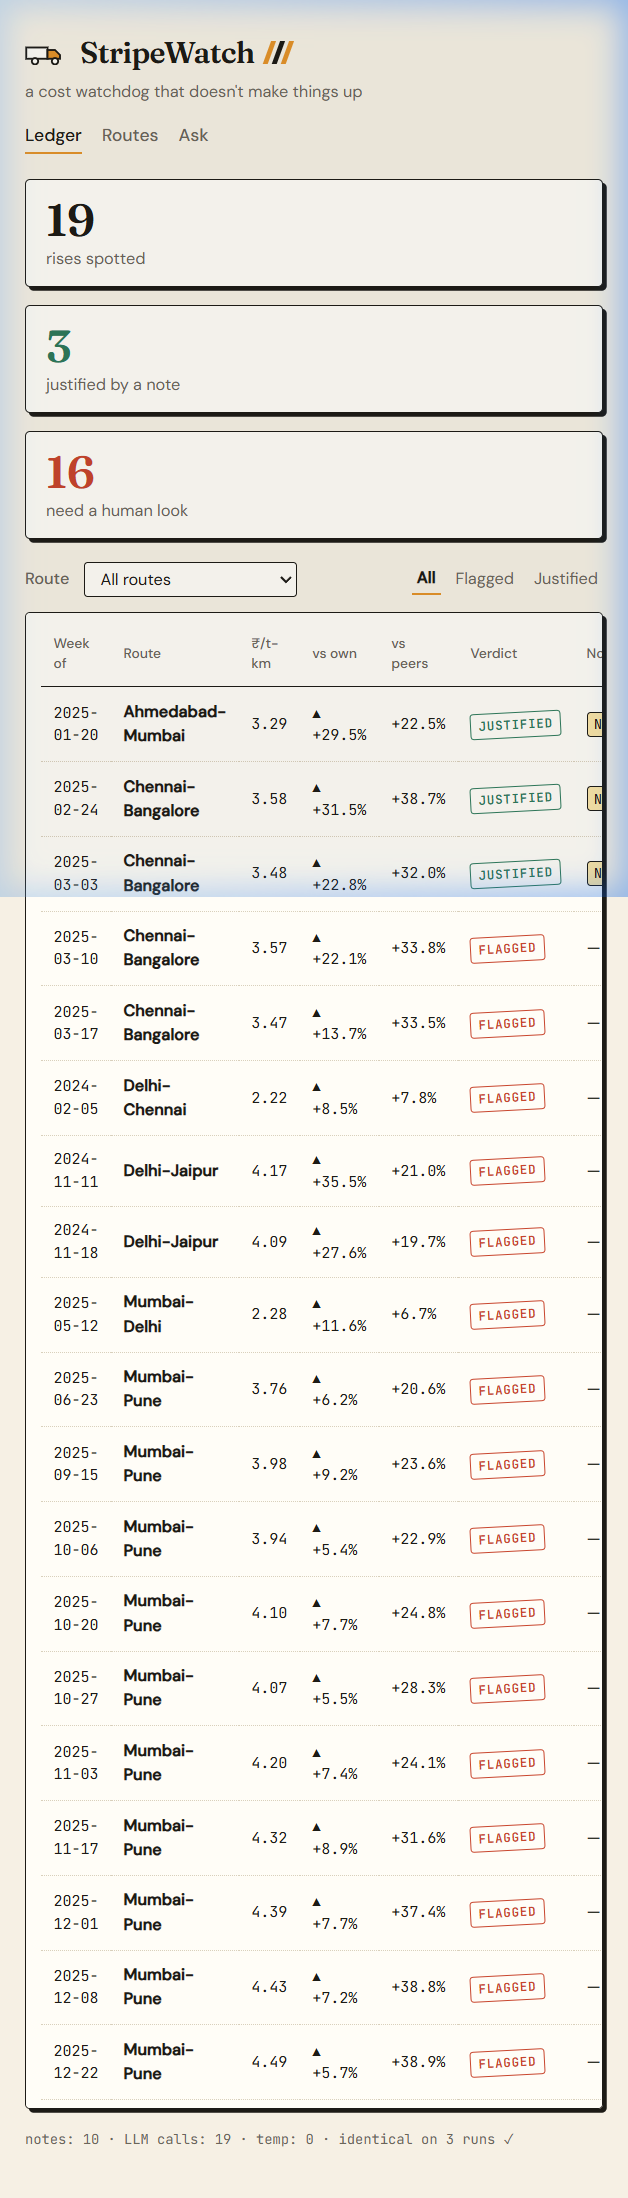
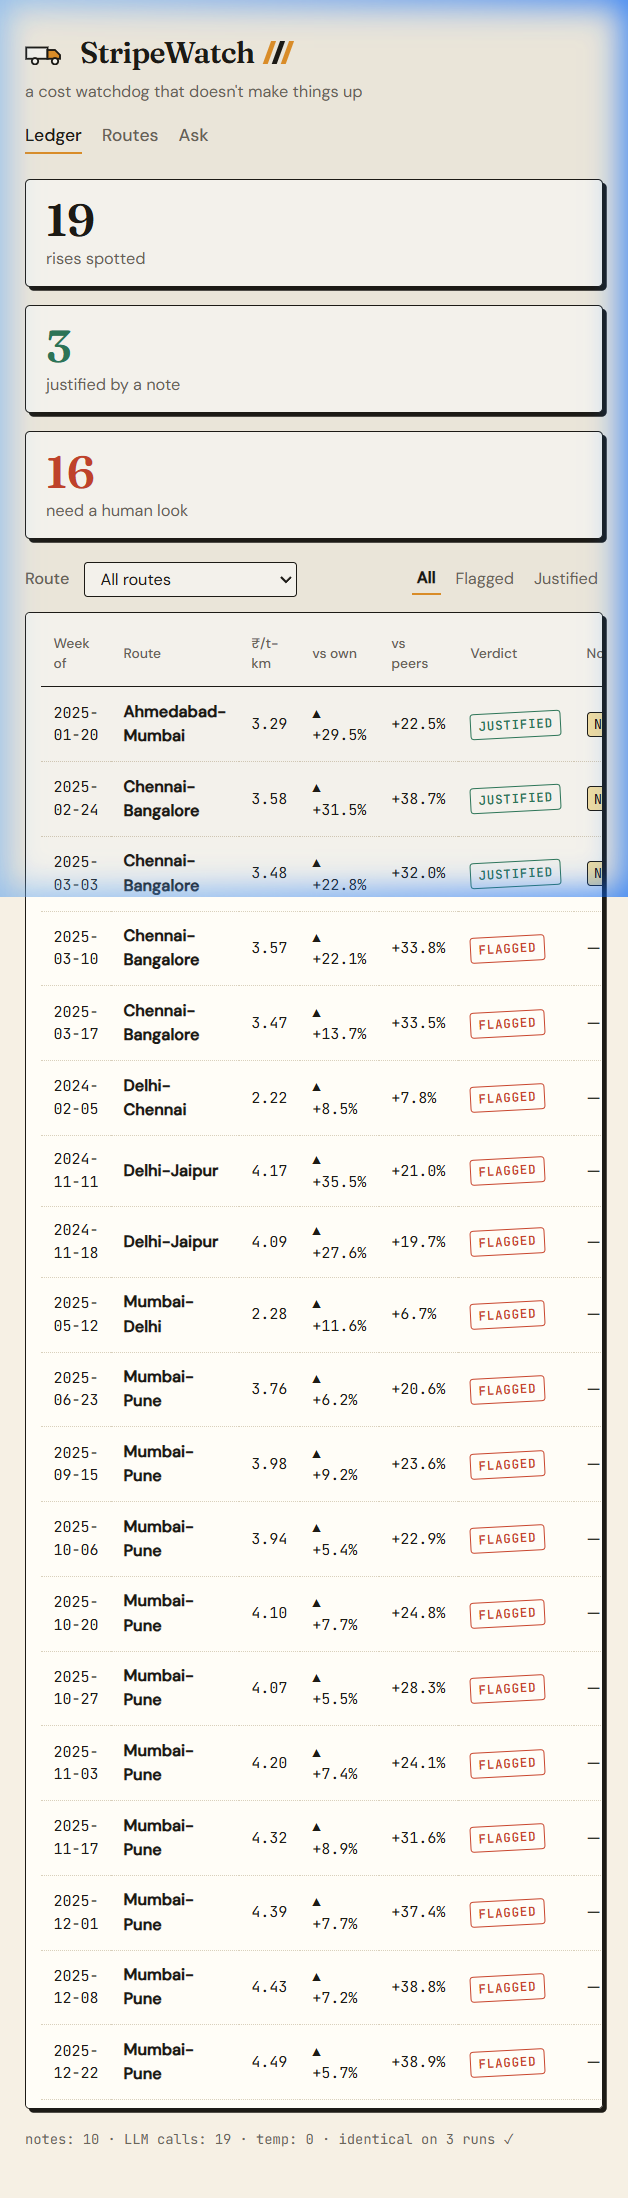
style: fine-tune mobile responsiveness, touch targets, and viewport padding

Changed region(s): [[0.1815, 0.0, 1.0, 0.4331], [0.0, 0.0, 0.0303, 0.4331]]

diff --git a/web/app.css b/web/app.css
@@ -305,6 +305,66 @@ html, body {
   * { animation: none !important; }
 }
 @media (max-width: 560px) {
-  .summary { grid-template-columns: 1fr; }
-  .ledger { overflow-x: auto; }
+  .sw { padding: 16px 12px; }
+  .summary { grid-template-columns: 1fr; gap: 10px; }
+  .filters {
+    flex-direction: column;
+    align-items: stretch;
+    gap: 10px;
+  }
+  .filters select {
+    width: 100%;
+    min-height: 40px;
+    font-size: 14px;
+  }
+  .filters .tabs {
+    margin-left: 0;
+    width: 100%;
+    display: flex;
+    justify-content: space-around;
+    border-bottom: 1px solid var(--rule);
+    padding-bottom: 4px;
+  }
+  .filters .tabs button {
+    min-height: 40px;
+    padding: 8px 12px;
+    font-size: 14px;
+  }
+  .nav { gap: 20px; }
+  .nav a {
+    min-height: 40px;
+    display: inline-flex;
+    align-items: center;
+  }
+  .route-head {
+    flex-direction: column;
+    align-items: flex-start;
+    gap: 6px;
+  }
+  .route-head .range {
+    margin-left: 0;
+    font-size: 13px;
+  }
+  .slips {
+    grid-template-columns: 1fr;
+    gap: 12px;
+  }
+  .ledger {
+    overflow-x: auto;
+    -webkit-overflow-scrolling: touch;
+    padding: 4px 8px;
+  }
+  .askbox {
+    padding: 6px 10px;
+  }
+  .askbox button {
+    min-height: 40px;
+    padding: 8px 16px;
+  }
+  .ex {
+    min-height: 38px;
+    display: inline-flex;
+    align-items: center;
+    padding: 6px 12px;
+  }
 }
